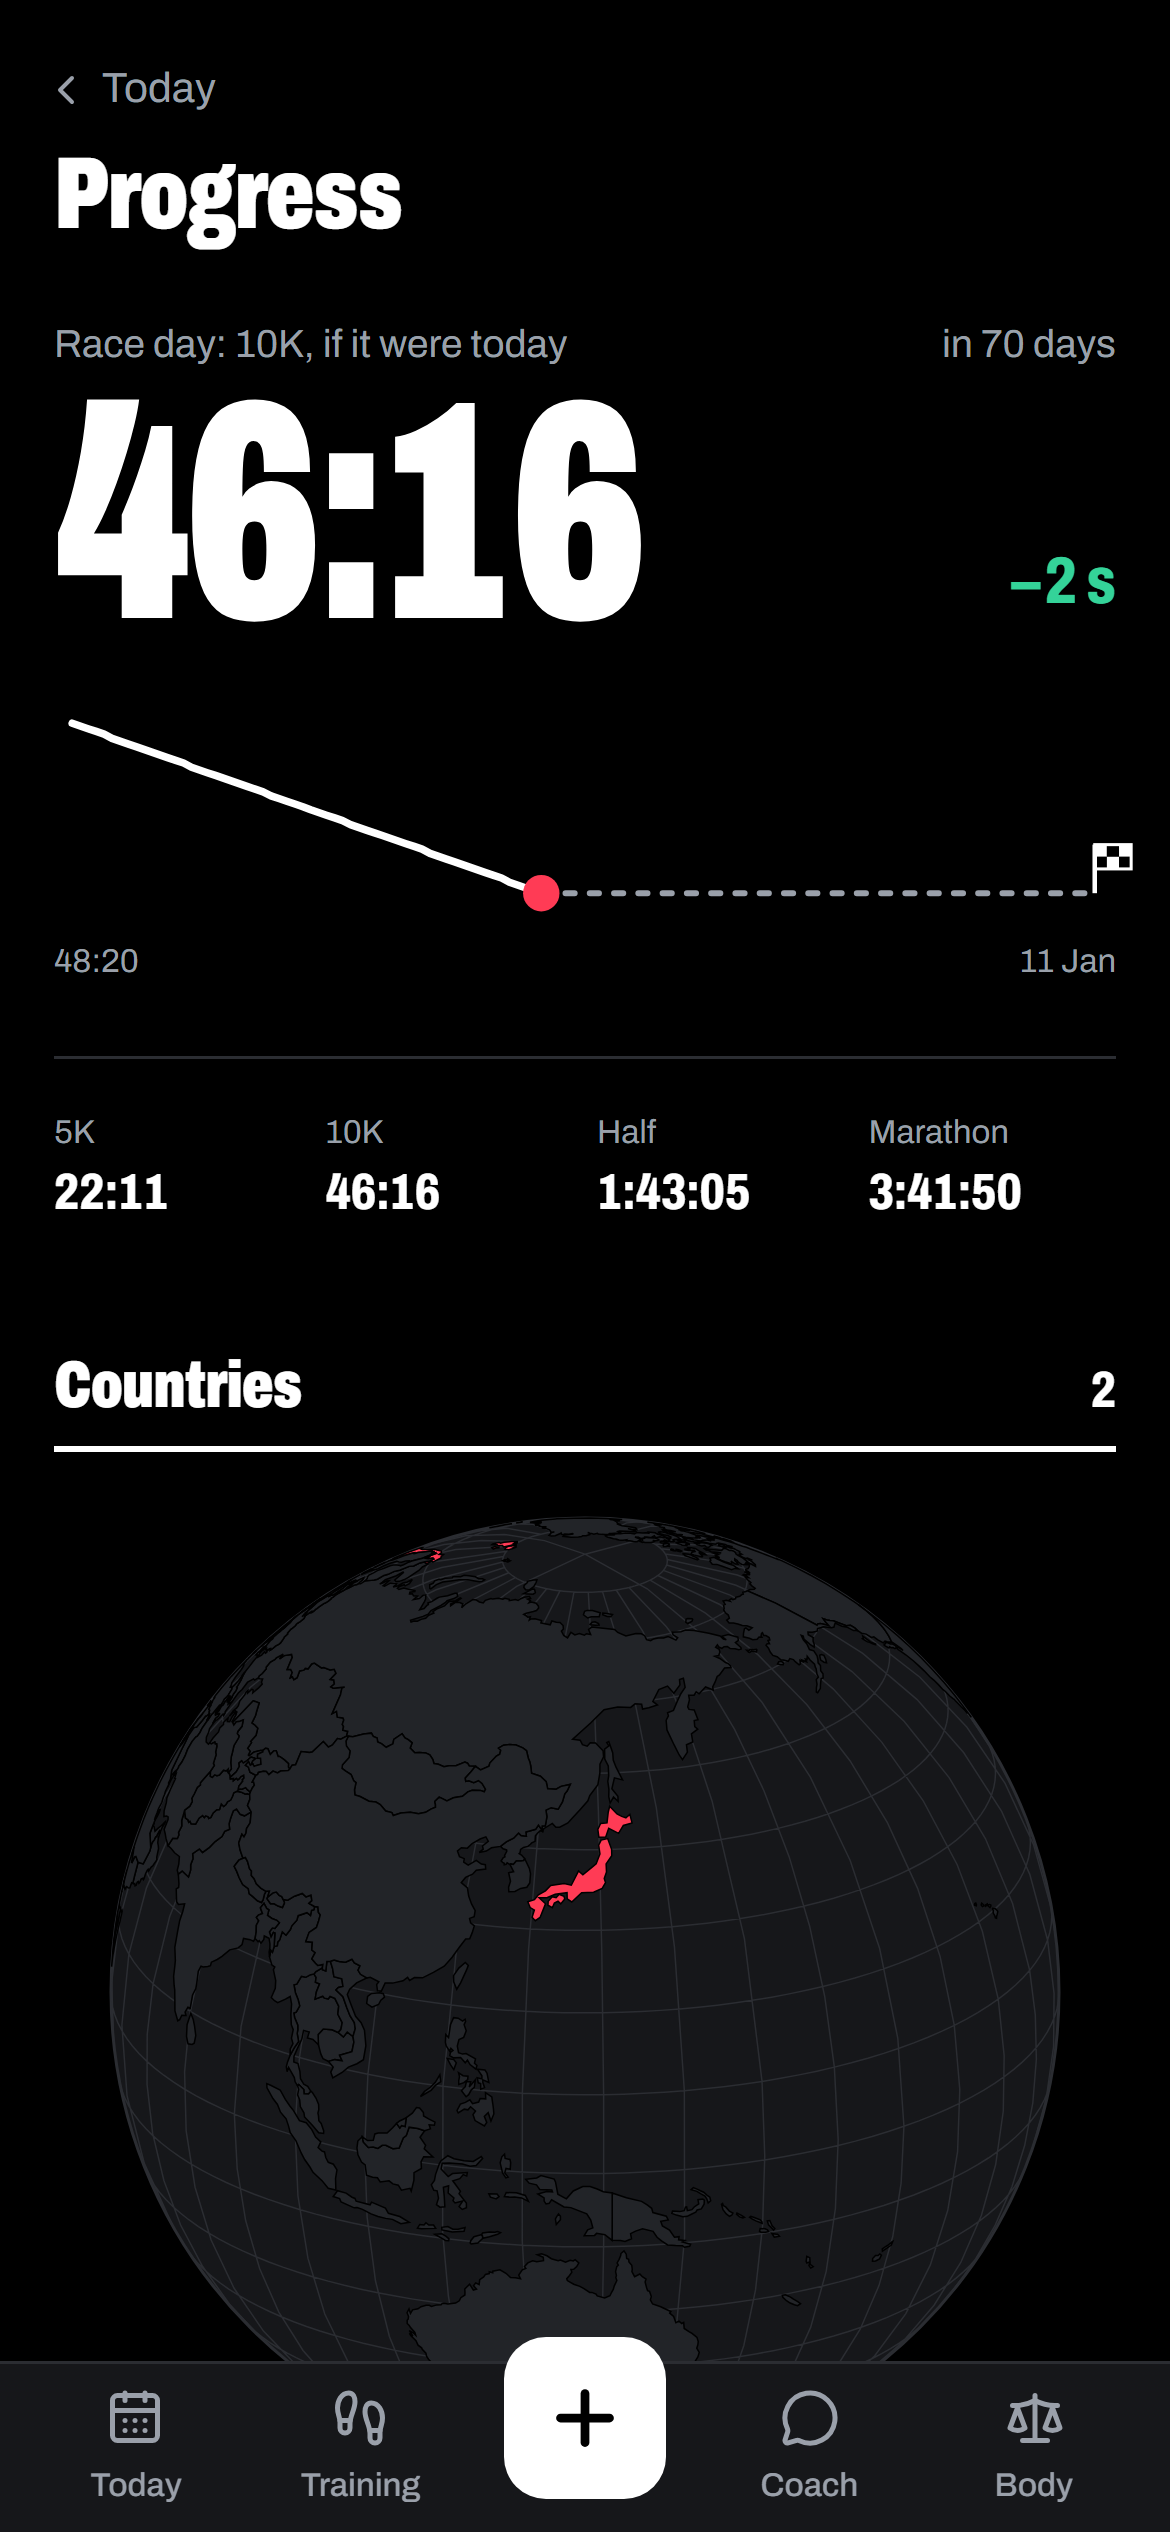
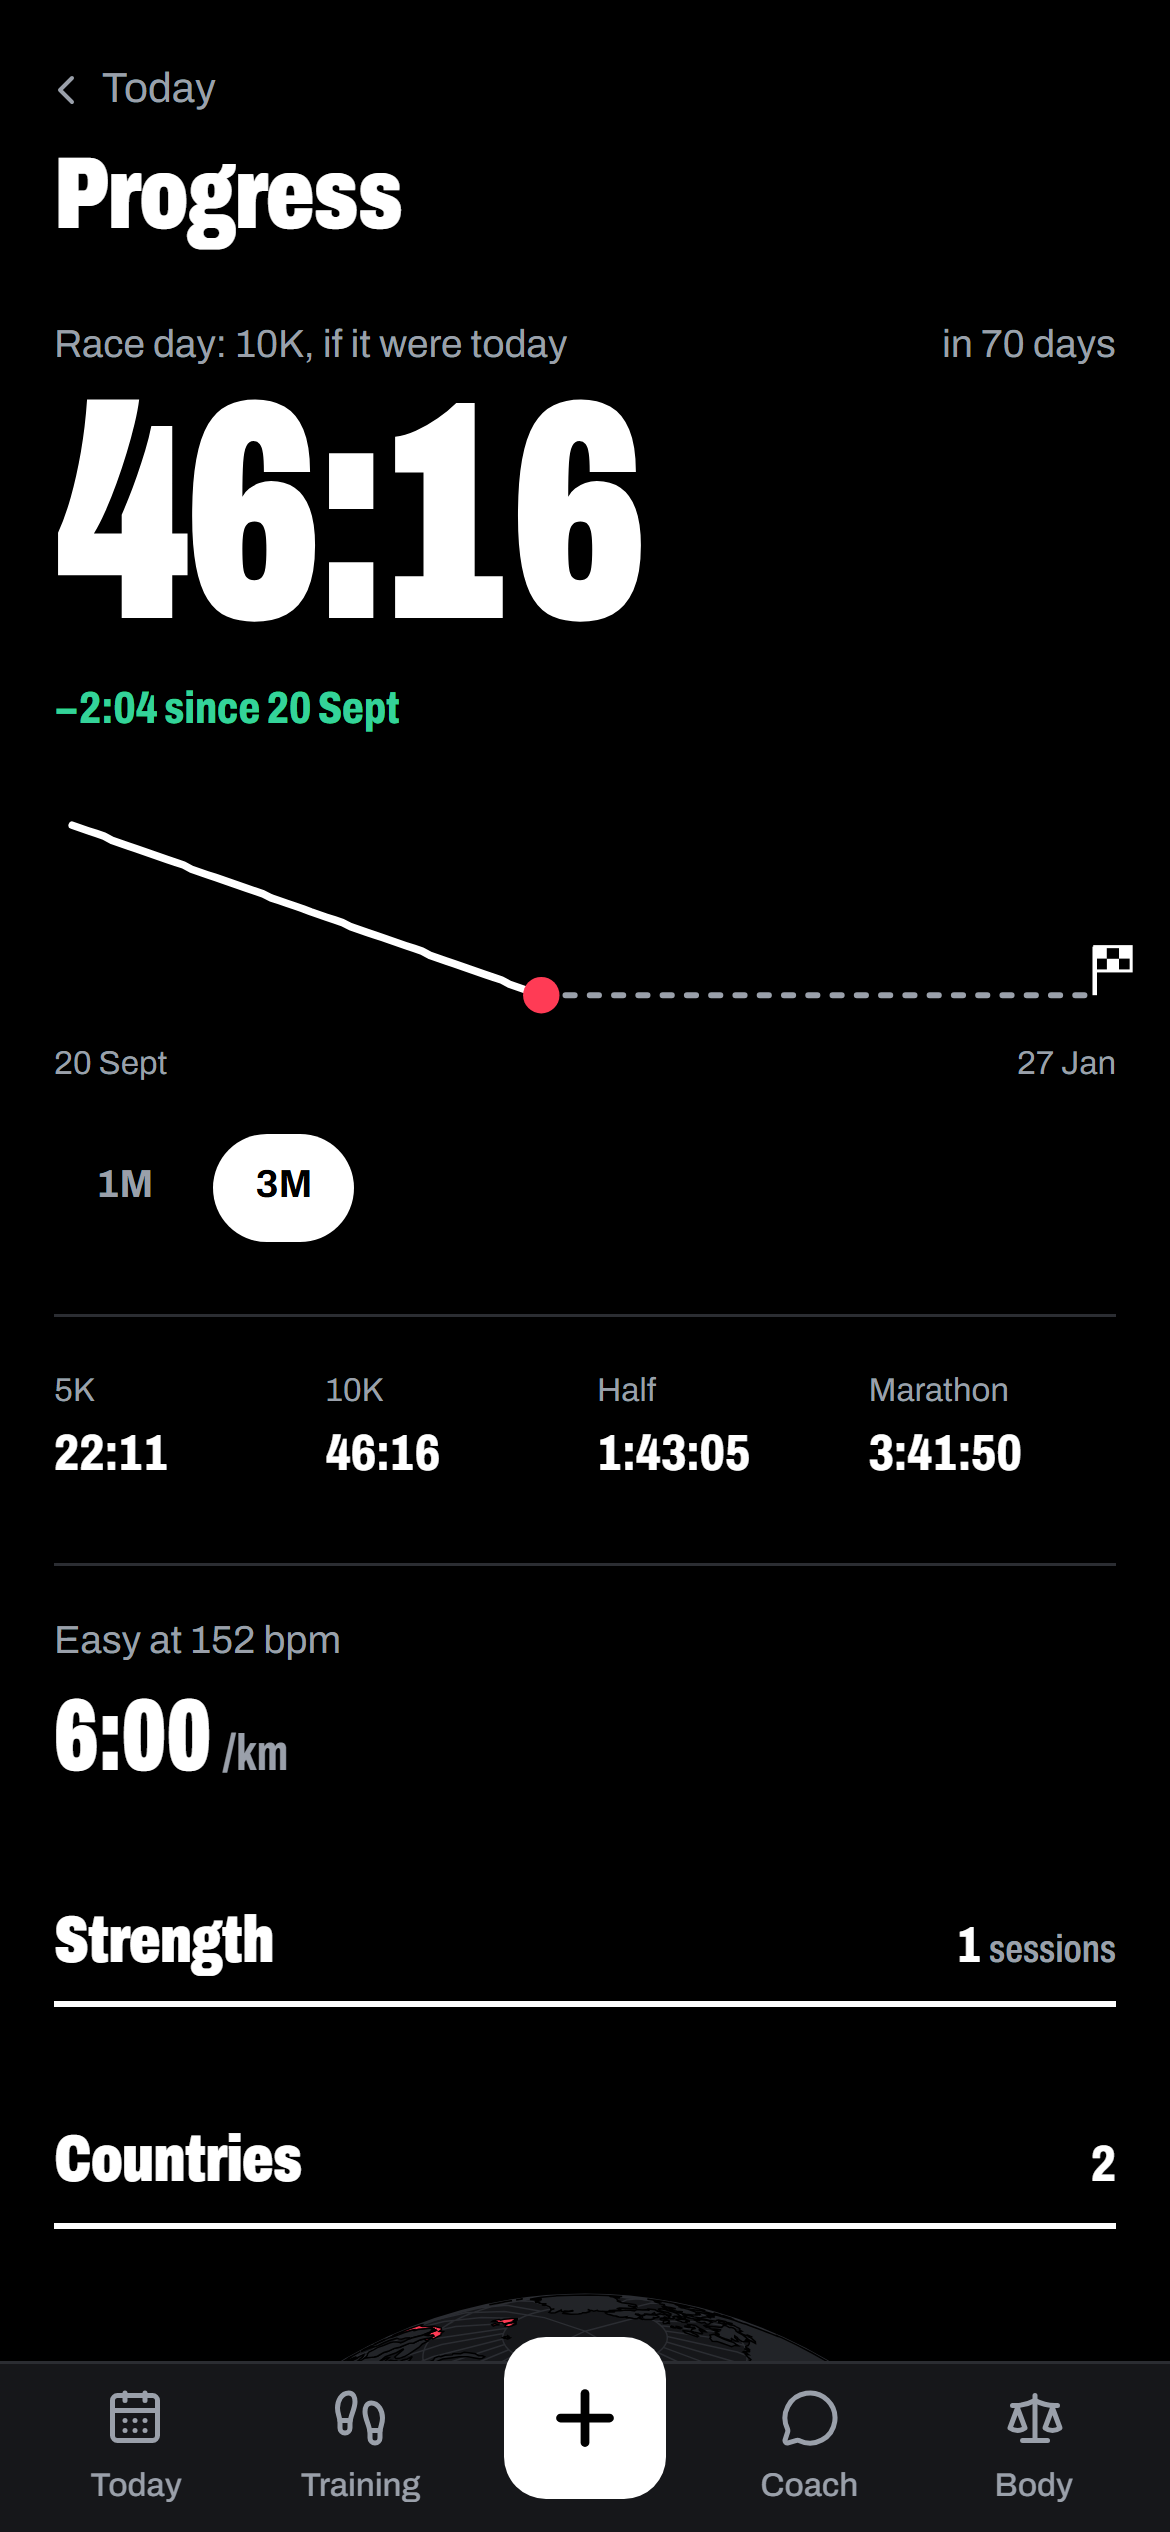
docs: README with under the clock and strength, new screenshots from the app

diff --git a/README.md b/README.md
@@ -21,9 +21,7 @@ A training plan, nutrition, recovery and weight tracking in one mobile web app, 
 ### Today
 - Today's session as a race bib, with what to eat before and after.
 - Calories left, macros, and how much today's activity added to your target.
-- A race clock: your predicted time for the race you train for (from Garmin), how it moved since yesterday, and the road to race day.
-- A short note from the coach every morning about yesterday and today. When resting heart rate and HRV have been off for days it says so, with one tap to swap a hard session for an easy one.
-- Stamps that come on their own: countries you have run or ridden in (on a globe you can spin), distances, personal bests, big months and weeks on plan.
+- Your meals in one list, with an empty breakfast, lunch or dinner one tap away from logging, and your trend weight.
 - The week at a glance: which days you logged food and which sessions you did.
 
 ### Coach
@@ -35,12 +33,25 @@ A training plan, nutrition, recovery and weight tracking in one mobile web app, 
 - The answer streams in while the coach works, with a line showing what it is looking at.
 
 ### Training
+- **The race clock:** your predicted time for the race you train for (from Garmin), the road to race day, and in race plans how much race pace you have run against what the plan holds.
+- **Under the clock, only when there is something new:** a verdict on your last run against what it was meant to be ("A bit fast: 4:26 and 4:28, zone 4:29–4:39"), a similar earlier run to measure yourself against, what the week did to your predicted time, and one challenge for the week that the app decides itself once the session syncs. No AI writing filler.
+- **Alerts with one action:** when resting heart rate and HRV have been off for days it says so, with one tap to swap a hard session for an easy one.
 - **Running:** plans for 5K, 10K, half marathon, marathon, or building fitness without a race, on the days you choose. Quality sessions rotate (short and long reps, threshold, race pace, fartlek, hills) with a 5K fitness test every eight weeks.
 - **Cycling:** event or build plans driven by time and heart rate, with power targets when you have a power meter or smart trainer (ERG). Indoor season on a switch.
 - **Both:** add easy rides to a running plan, or easy runs to a cycling plan, on days you pick.
 - **Smart defaults:** paces, zones and the starting volume come from your recent sessions and Garmin. Weekly volume builds toward what your goal needs.
 - **Garmin:** sessions go to your watch or Edge. The whole plan shows as a line map to race day.
 - **Suggestions you accept:** a missed session, new paces, a lighter week.
+
+### Strength
+- Log a session in a few taps: pick exercises from a list with your favourites first, sets filled in from last time, kg typed in.
+- A hint when you are ready to go up, using your own last step.
+- Sessions show in the week and the plan, link to a Garmin strength activity on the same day, and count in your calories.
+
+### Progress
+- The race clock over one month to a year, with the change since the start; drag along the line to see a day.
+- Easy pace at your usual heart rate, strength progress on your favourite exercises.
+- Stamps that come on their own: countries you have run or ridden in (on a globe you can spin), distances, personal bests, big months, strength milestones.
 
 ### Nutrition and weight
 - Log food from a photo or a short description. The app estimates grams, calories and macros, and you can correct it in plain text.
@@ -53,9 +64,9 @@ A training plan, nutrition, recovery and weight tracking in one mobile web app, 
 
 ## Screenshots
 
-| Today | Training | Session | Coach | Progress | Log food | Body | New plan |
-|:---:|:---:|:---:|:---:|:---:|:---:|:---:|:---:|
-| <img src="docs/screenshots/today.png" width="140"> | <img src="docs/screenshots/training.png" width="140"> | <img src="docs/screenshots/workout.png" width="140"> | <img src="docs/screenshots/coach.png" width="140"> | <img src="docs/screenshots/progress.png" width="140"> | <img src="docs/screenshots/food-ai.png" width="140"> | <img src="docs/screenshots/body.png" width="140"> | <img src="docs/screenshots/wizard.png" width="140"> |
+| Today | Training | Session | Strength | Coach | Progress | Log food | Body | New plan |
+|:---:|:---:|:---:|:---:|:---:|:---:|:---:|:---:|:---:|
+| <img src="docs/screenshots/today.png" width="140"> | <img src="docs/screenshots/training.png" width="140"> | <img src="docs/screenshots/workout.png" width="140"> | <img src="docs/screenshots/strength.png" width="140"> | <img src="docs/screenshots/coach.png" width="140"> | <img src="docs/screenshots/progress.png" width="140"> | <img src="docs/screenshots/food-ai.png" width="140"> | <img src="docs/screenshots/body.png" width="140"> | <img src="docs/screenshots/wizard.png" width="140"> |
 
 Screenshots are made with `node scripts/screenshots.mjs` against a running app and a seeded demo user. With `ANTHROPIC_API_KEY` set, the coach screenshot is a real answer.
 
@@ -70,5 +81,8 @@ Screenshots are made with `node scripts/screenshots.mjs` against a running app a
 | 2 | Plan variety, build-fitness plans, fitness tests, hills | Done |
 | 2 | Cycling plans with heart rate or power, combined running and cycling | Done |
 | 2 | Coach v2: its own tab, food help, looks up your data, streaming answers | Done |
-| Next | A coach that reaches out after a session that went badly; route/GPX import | Planned |
-| Later | Strength sessions, native app | Ideas |
+| 2 | Training only: a mode without food tracking, plans without Garmin | Done |
+| 2 | Strength sessions: exercises with favourites, sets from last time, Progress and stamps | Done |
+| 2 | Under the clock: verdict on each run, a ghost run, what the week bought, a weekly challenge, race pace (replaced the AI morning note) | Done |
+| Next | Heart-rate zones from your threshold heart rate (LTHR) in the plan and the verdicts | Planned |
+| Later | Route/GPX import, native app | Ideas |
